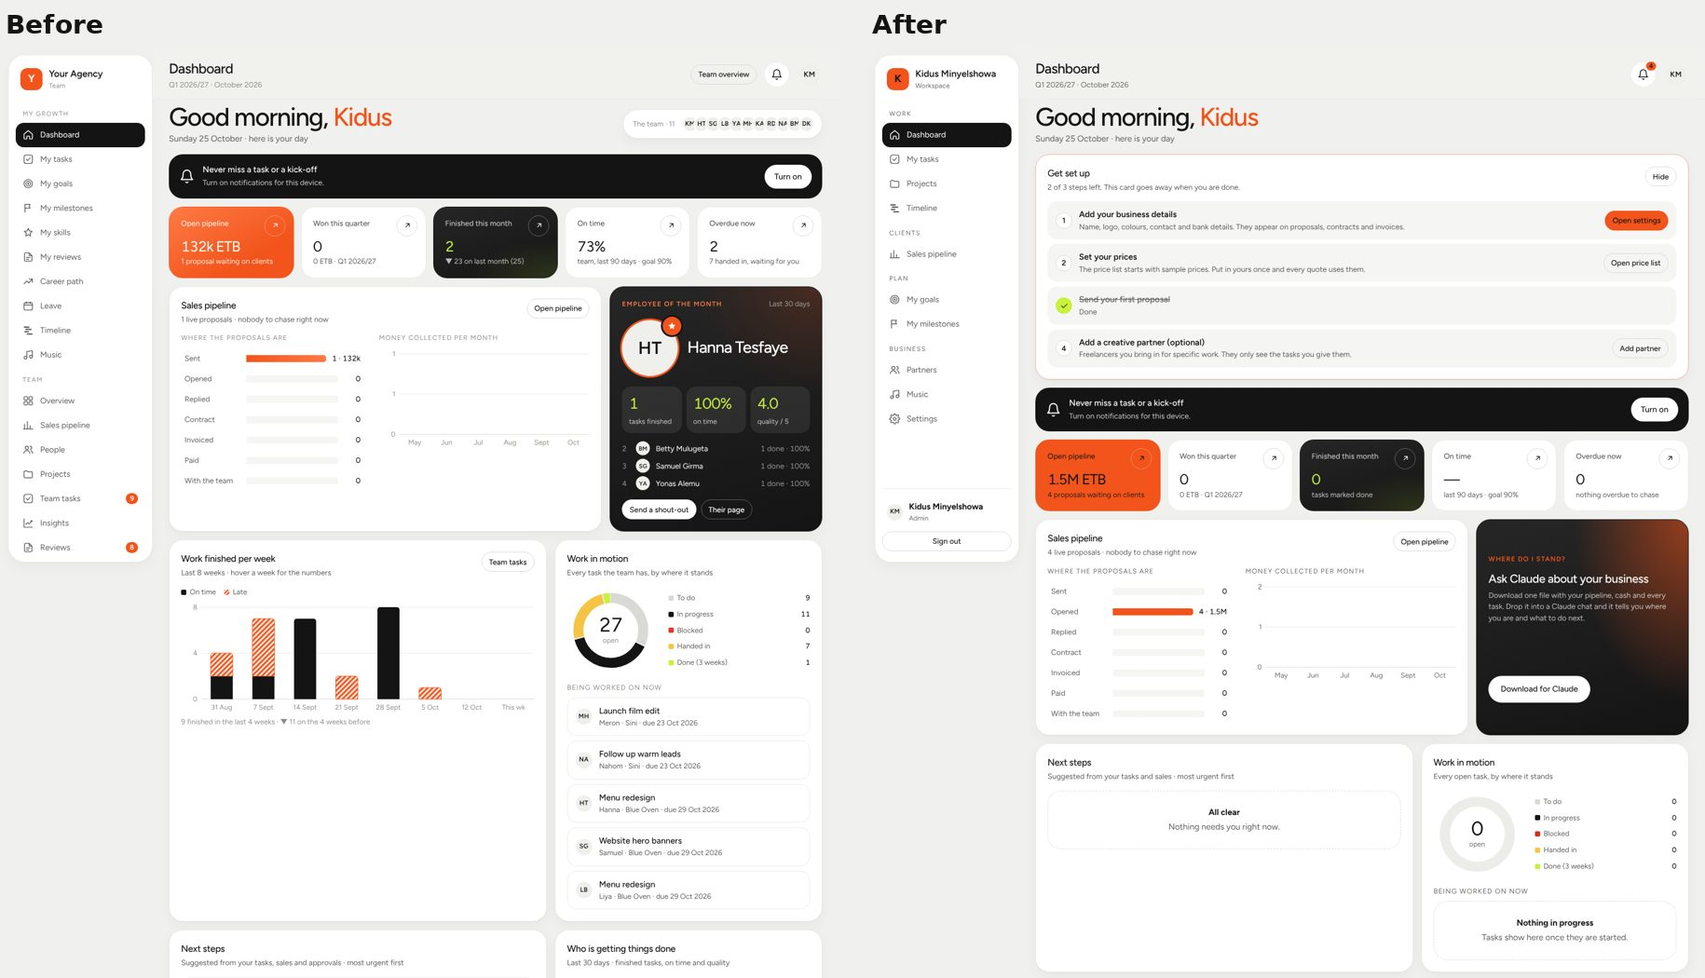
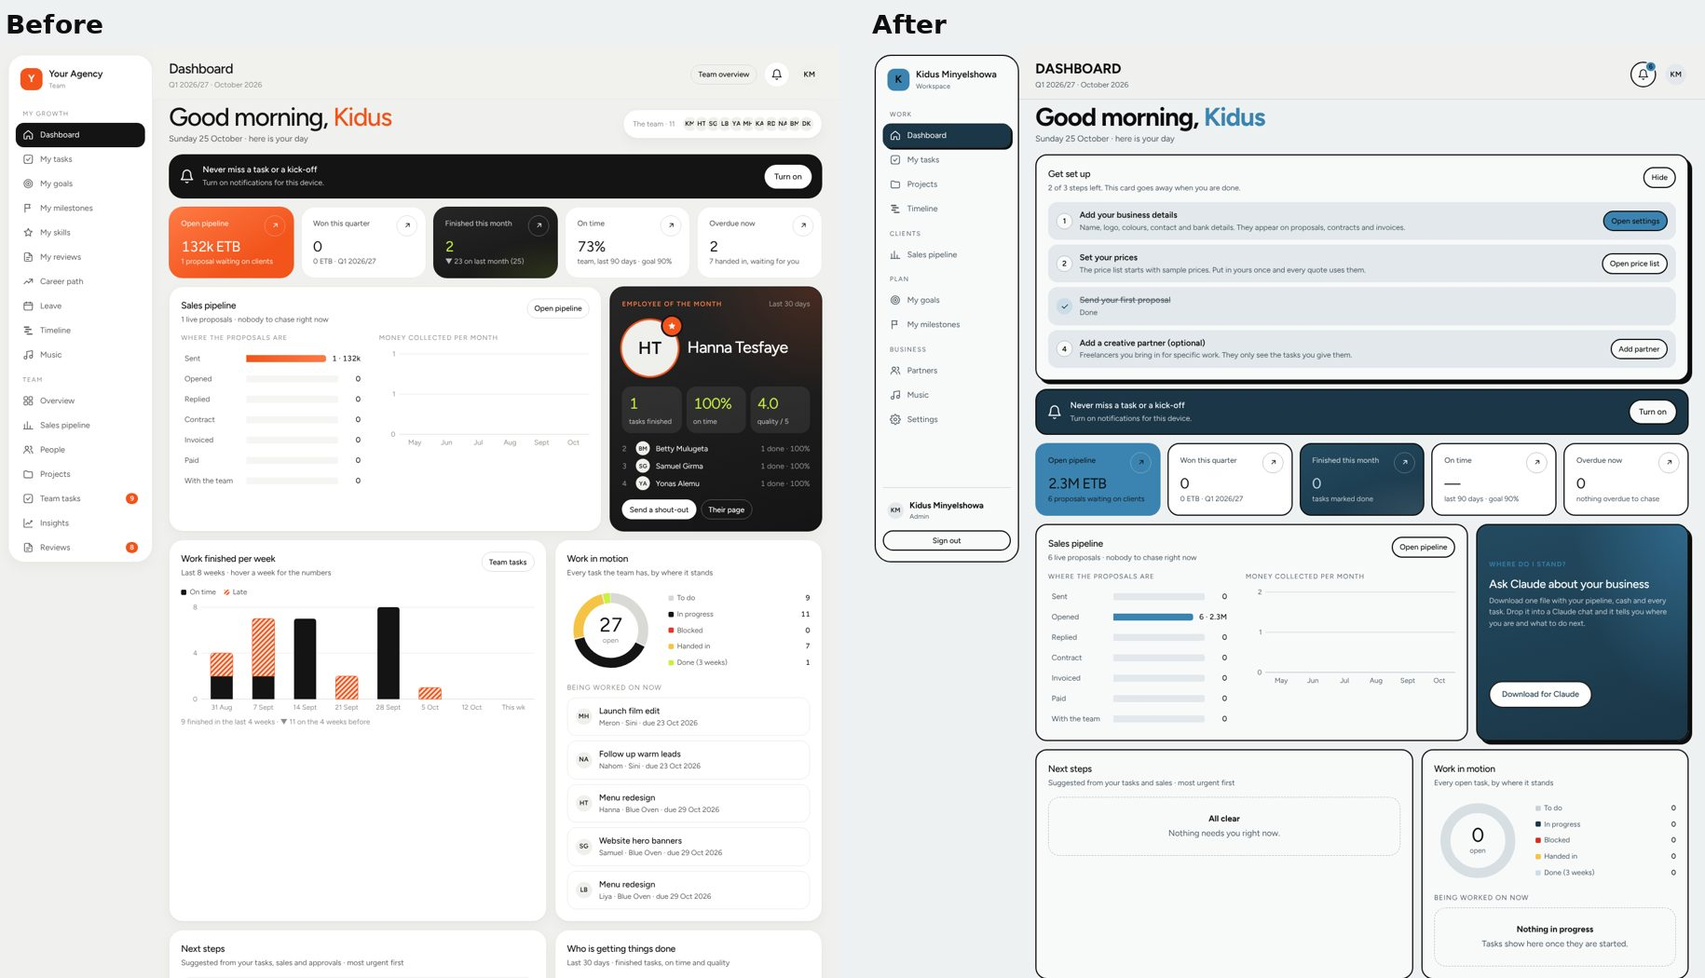
Match the suite's default look to the portfolio site
Paper and ink neutrals, cerulean accent, navy dark surfaces and blue-mist
highlight from the portfolio, with 2px ink outlines, hard offset shadows and
bold uppercase titles across the Team app, Price Builder, the client proposal
(Your brand theme) and the PDFs. Brand & region still re-themes everything.
Contrast, keyboard and phone checks re-run for every role.

Claude-Session: https://claude.ai/code/session_01CSZgg3nLr3tNDdXUPVZzjE

diff --git a/public/team/index.html b/public/team/index.html
@@ -25,14 +25,14 @@
   :root{
     --orange:var(--accent); --orange2:var(--accent-2); --orangeSoft:var(--accent-soft); --lime:var(--highlight); --limeSoft:var(--highlight-soft);
     --yellow:#F6C445; --yellowSoft:var(--warn-soft); --green:var(--ok); --greenSoft:var(--ok-soft); --danger:#D42F23; --dangerSoft:var(--bad-soft);
-    --black:#141414; --black2:#262626;
-    --red:var(--accent); --redSoft:var(--accent-soft); --teal:var(--black); --tealSoft:#EFEFEC; --ivory:#F5F5F3; --wine:var(--black); --wineSoft:#EFEFEC;
-    --stone:#CFCFCA; --stoneSoft:#EFEFEC; --sun:var(--yellow); --sunSoft:var(--yellowSoft);
+    --black:var(--dark); --black2:var(--dark-2);
+    --red:var(--accent); --redSoft:var(--accent-soft); --teal:var(--black); --tealSoft:var(--soft); --ivory:var(--card); --wine:var(--black); --wineSoft:var(--soft);
+    --stone:var(--line-2); --stoneSoft:var(--soft); --sun:var(--yellow); --sunSoft:var(--yellowSoft);
     --soft2:var(--soft-2); --line2:var(--line-2); --ink2:var(--ink-2);
     --accentSoft:var(--accent-soft); --onAccent:var(--on-accent);
-    --plum:var(--black); --plumSoft:#EFEFEC;
+    --plum:var(--black); --plumSoft:var(--soft);
     --okSoft:var(--ok-soft); --warnSoft:var(--warn-soft); --badSoft:var(--bad-soft);
-    --info:var(--black); --infoSoft:#EFEFEC;
+    --info:var(--black); --infoSoft:var(--soft);
     --c1:var(--chart-1); --c2:var(--chart-2);
     --r:var(--r-card); --r2:var(--r-panel);
     --tabh:0px; --playh:0px;
@@ -42,7 +42,7 @@
   body{margin:0;background:var(--page);color:var(--ink);font-family:var(--font);font-size:14.5px;line-height:1.5;-webkit-font-smoothing:antialiased;overflow-x:hidden}
   /* each person's own background (preset or photo), with a veil so text stays readable */
   body.bg{background:var(--bgfill,var(--page)) center/cover fixed no-repeat}
-  body.bg::before{content:"";position:fixed;inset:0;background:rgba(240,240,238,var(--veil,.55));pointer-events:none;z-index:0}
+  body.bg::before{content:"";position:fixed;inset:0;background:rgba(238,241,242,var(--veil,.55));pointer-events:none;z-index:0}
   body.bg #app,body.bg .gate{position:relative;z-index:1}
   a{color:inherit;text-decoration:none}
   h1,h2,h3,h4{margin:0;font-weight:500;letter-spacing:-.02em}
@@ -120,7 +120,7 @@
 
   .headrow{display:flex;gap:16px;align-items:center;flex-wrap:wrap}
   .headrow>.grow{min-width:160px}
-  .avatar{flex:none;width:36px;height:36px;border-radius:50%;background:#EFEFEC;color:#141414;display:grid;place-items:center;
+  .avatar{flex:none;width:36px;height:36px;border-radius:50%;background:var(--soft);color:#141414;display:grid;place-items:center;
           font-size:13px;font-weight:600;letter-spacing:.02em;overflow:hidden;position:relative}
   .avatar img{width:100%;height:100%;object-fit:cover;display:block}
   .avatar.lg{width:64px;height:64px;font-size:21px}
@@ -253,7 +253,7 @@
   .setup-steps li b{display:block;font-weight:600}
   .setup-steps li small{display:block;color:var(--ink2);font-size:13px}
   .setup-steps li .grow{min-width:200px}
-  .promo{display:flex;align-items:center;gap:14px;border-radius:var(--r2);padding:16px 18px;background:var(--ink);color:#fff;flex-wrap:wrap}
+  .promo{display:flex;align-items:center;gap:14px;border-radius:var(--r2);padding:16px 18px;background:var(--dark);color:#fff;border:var(--stroke) solid var(--stroke-c);flex-wrap:wrap}
   .promo .grow b{display:block;font-weight:500}
   .promo .grow span{opacity:.75;font-size:13px}
   .promo button{background:#fff;color:var(--ink)}
@@ -369,9 +369,7 @@
   .kcol[data-status="done"]{--kh:var(--lime);--kt:var(--on-highlight)}
   .kcol>header{display:flex;align-items:center;flex-wrap:wrap;gap:4px 8px;padding:8px 10px 8px 12px;font-size:13.5px;background:var(--kh);color:var(--kt);border-radius:15px;min-width:0}
   .kcol>header .dot{display:none}
-  .kcol>header .muted{color:inherit;opacity:1;font-size:12px;font-weight:600;min-width:22px;height:22px;border-radius:99px;display:inline-grid;place-items:center;padding:0 6px;background:rgba(255,255,255,.24)}
-  .kcol[data-status="todo"]>header .muted,.kcol[data-status="submitted"]>header .muted,.kcol[data-status="done"]>header .muted{background:rgba(20,20,20,.09)}
-  .kcol[data-status="blocked"]>header .muted{background:rgba(0,0,0,.22)}
+  .kcol>header .muted{color:inherit;opacity:1;font-size:12px;font-weight:600;min-width:22px;height:22px;border-radius:99px;display:inline-grid;place-items:center;padding:0 6px;background:transparent;box-shadow:inset 0 0 0 1.5px currentColor}
   .kcol>header small.muted{margin-left:auto;background:none;font-weight:400;opacity:.8;padding:0}
   .kcol.over{box-shadow:0 0 0 2px var(--kh) inset;filter:brightness(.97)}
   .kcol.no{opacity:.45}
@@ -577,7 +575,7 @@
     :root{--tabh:calc(66px + env(safe-area-inset-bottom))}
     .shell{grid-template-columns:1fr}
     aside.nav{display:none}
-    header.top{padding:calc(12px + env(safe-area-inset-top)) 16px 10px;background:rgba(240,240,238,.92);backdrop-filter:blur(14px);-webkit-backdrop-filter:blur(14px)}
+    header.top{padding:calc(12px + env(safe-area-inset-top)) 16px 10px;background:rgba(238,241,242,.92);backdrop-filter:blur(14px);-webkit-backdrop-filter:blur(14px)}
     body.bg header.top{background:rgba(255,252,247,.3)}
     header.top h1{font-size:21px}
     header.top .crumb{display:none}
@@ -640,6 +638,36 @@
   }
   @media (display-mode: standalone){ header.top{padding-top:calc(14px + env(safe-area-inset-top))} }
   @media (prefers-reduced-motion:reduce){*{transition:none!important;animation:none!important}}
+
+  /* ---------- the portfolio look (kidusminyel.xyz): paper, ink outlines, hard offset shadows, navy ---------- */
+  aside.nav,.card,.tile,.modal,.topbtn{border:var(--stroke) solid var(--stroke-c);box-shadow:none}
+  .grid4>.tile,.kpis>.tile{border-color:var(--stroke-c)}
+  .card.setup,.card.claude,.modal{box-shadow:var(--pop)}
+  .card.setup{border-color:var(--stroke-c)}
+  .tcard{background:var(--card);border:1.5px solid var(--stroke-c)}
+  .kcol{border:var(--stroke) solid var(--stroke-c)}
+  .kcol>header{border:1.5px solid var(--stroke-c)}
+  nav#navlinks a[aria-current="page"]{background:var(--dark);box-shadow:var(--pop-sm)}
+  button.primary{background:var(--dark);border:var(--stroke) solid var(--stroke-c);color:#fff}
+  button.primary:hover{background:var(--dark)}
+  button.accent{border:var(--stroke) solid var(--stroke-c)}
+  button.ghost,button:not([class]){border:var(--stroke) solid var(--stroke-c);background:var(--card)}
+  button.primary,button.accent,button.ghost,button:not([class]){transition:background .15s,box-shadow .15s,transform .15s}
+  button.primary:hover,button.accent:hover,button.ghost:hover,button:not([class]):hover{box-shadow:var(--pop-sm);transform:translate(-2px,-2px)}
+  button.primary:active,button.accent:active,button.ghost:active,button:not([class]):active{box-shadow:none;transform:none}
+  .card.dark button.ghost,.card.dark button:not([class]),.card.claude button:not([class]){border-color:var(--card)}
+  input,select,textarea{background:var(--card);border:1.5px solid var(--line-2)}
+  input:focus,select:focus,textarea:focus{border-color:var(--stroke-c);box-shadow:var(--pop-sm)}
+  .seg{background:var(--dark);border:var(--stroke) solid var(--stroke-c)}
+  :is(.seg,.tabbar,.tabs,.mobilebar) button,:is(.seg,.tabbar,.tabs,.mobilebar) button:hover{border-color:transparent;box-shadow:none;transform:none}
+  .seg button:not([aria-checked="true"]){background:transparent}
+  .tabbar button{background:none}
+  .tabbar [aria-current="page"] .ic{background:var(--dark)}
+  header.top h1{font-weight:800;text-transform:uppercase;letter-spacing:-.01em}
+  .hello h2{font-weight:800;letter-spacing:-.035em}
+  .card.dark,.tile.t-black,.grid4>.tile:nth-child(4n+3),.kpis>.tile:nth-child(5n+3){border-color:var(--stroke-c)}
+  @media (prefers-reduced-motion:reduce){button:hover{transform:none !important}}
+  button:focus-visible,a:focus-visible,input:focus-visible,select:focus-visible,textarea:focus-visible{box-shadow:var(--focus) !important}
 </style>
 </head>
 <body>

diff --git a/public/price/proposal.html b/public/price/proposal.html
@@ -45,16 +45,16 @@ html[data-theme="classic"]{
 /* "Your brand": every colour is mixed from the brand accent and highlight (set by theme.js) */
 html[data-theme="brand"]{
   --a:var(--accent); --h:var(--highlight);
-  --page:#F0F0EE; --card:#FFFFFF; --inner:#F2F2EF; --ink:#141414; --ink2:#5E5E5A; --mute:#6B6B66; --line:#E6E6E2;
+  --page:#EEF1F2; --card:#F8FAFA; --inner:#E9EEF0; --ink:#0E0E0E; --ink2:#4B5A63; --mute:#56636B; --line:#CBD3D7;
   --pink:color-mix(in srgb,var(--a) 32%,#fff); --pinkSel:color-mix(in srgb,var(--a) 48%,#fff); --pinkSoft:color-mix(in srgb,var(--a) 12%,#fff); --pinkLine:color-mix(in srgb,var(--a) 58%,#fff);
-  --plum:color-mix(in srgb,var(--a) 38%,#141414); --teal:color-mix(in srgb,var(--h) 45%,#fff); --tealIn:color-mix(in srgb,var(--h) 22%,#fff);
+  --plum:color-mix(in srgb,var(--a) 30%,#0E0E0E); --teal:color-mix(in srgb,var(--h) 45%,#fff); --tealIn:color-mix(in srgb,var(--h) 22%,#fff);
   --tealInk:#141414; --tealLine:color-mix(in srgb,var(--h) 55%,#141414); --tealText:#2B2B27;
-  --black:#141414; --shade:20,20,20; --togOff:#E3E3DF; --dot:#D3D3CE;
+  --black:#1A3647; --shade:14,14,14; --togOff:#D7DFE3; --dot:#BAC4CA;
   --gA-bg:color-mix(in srgb,var(--a) 12%,#fff); --gA-ink:#141414; --gA-arc:var(--a); --gA-arc2:color-mix(in srgb,var(--a) 70%,#fff); --gA-rest:color-mix(in srgb,var(--a) 20%,#fff); --gA-chip:color-mix(in srgb,var(--a) 24%,#fff);
-  --gB-bg:#F2F2EF; --gB-ink:#141414; --gB-track:#E3E3DF; --gB-tick:#A8A8A2;
+  --gB-bg:#E9EEF0; --gB-ink:#0E0E0E; --gB-track:#D7DFE3; --gB-tick:#9AA7AE;
   --w1:var(--a); --w2:color-mix(in srgb,var(--a) 65%,#141414); --w3:color-mix(in srgb,var(--a) 55%,#fff); --w4:#141414; --w5:color-mix(in srgb,var(--a) 30%,#fff); --w6:color-mix(in srgb,var(--a) 75%,#8F8F8A); --wx:#141414;
   --gC-bg:color-mix(in srgb,var(--h) 20%,#fff); --gC-ink:#141414; --gC-line:color-mix(in srgb,var(--h) 45%,#141414); --gC-soft:color-mix(in srgb,var(--h) 35%,#fff); --gC-vline:color-mix(in srgb,var(--h) 60%,#6B6B66);
-  --gD-bg:#EEEEEA; --gD-ink:#2B2B27; --gD-badge:#6B6B66; --gD-soft:#E0E0DB; --gD-softInk:#3F3F3B;
+  --gD-bg:#E2E8EB; --gD-ink:#1F2A30; --gD-badge:#56636B; --gD-soft:#D7DFE3; --gD-softInk:#33424B;
 }
 html[data-theme="ember"]{
   --page:#F1ECE6; --card:#FBF8F4; --inner:#F0E9E1; --ink:#3B1A0C; --ink2:#6B4E3F; --mute:#9A8374; --line:#E9DDD2;
@@ -387,6 +387,15 @@ dialog::backdrop{background:rgba(var(--shade),.35);-webkit-backdrop-filter:blur(
   .invh h2{font-size:20px}
 }
 @media (prefers-reduced-motion:reduce){*{transition:none !important}}
+
+/* ---------- "Your brand" theme: the portfolio look (ink outlines, hard offset shadows) ---------- */
+html[data-theme="brand"] :is(.field,.panel,.gc,.dlg,.done,.cat,.innerbox){border:2px solid var(--ink)}
+html[data-theme="brand"] .gc{box-shadow:none}
+html[data-theme="brand"] :is(.field.plum,.field.pink){box-shadow:6px 6px 0 var(--ink)}
+html[data-theme="brand"] .field .card{border:2px solid var(--ink)}
+html[data-theme="brand"] .hero h1{font-weight:800;text-transform:uppercase;letter-spacing:-.02em}
+html[data-theme="brand"] .tl .svc,html[data-theme="brand"] .tl .lane{border:2px solid var(--ink)}
+html[data-theme="brand"] .tl .svc{border-right:0} html[data-theme="brand"] .tl .lane{border-left:0}
 </style>
 </head>
 <body>

diff --git a/public/team/suite.css b/public/team/suite.css
@@ -3,30 +3,37 @@
    each page maps its own older variable names onto these, so changing them here re-themes all three. */
 :root{
   /* brand */
-  --accent:#F2541B; --accent-2:#FF7A45; --on-accent:#141414; --highlight:#C8F23C; --on-highlight:#141414;
+  --accent:#3B84B1; --accent-2:#2A6D97; --on-accent:#0E0E0E; --highlight:#C9DDE9; --on-highlight:#0E0E0E;
   --accent-soft:color-mix(in srgb, var(--accent) 14%, #fff);
   --accent-strong:color-mix(in srgb, var(--accent) 82%, #000);
   --highlight-soft:color-mix(in srgb, var(--highlight) 22%, #fff);
 
-  /* neutrals: every text colour passes WCAG AA (4.5:1) on --page, --soft and --card */
-  --ink:#141414; --ink-2:#5E5E5A; --mute:#6B6B66;
-  --page:#F0F0EE; --card:#FFFFFF; --soft:#F5F5F3; --soft-2:#ECECE9; --line:#EAEAE7; --line-2:#D9D9D5;
+  /* neutrals, from the portfolio site's paper and ink: every text colour passes WCAG AA (4.5:1)
+     on --page, --soft and --card */
+  --ink:#0E0E0E; --ink-2:#4B5A63; --mute:#56636B;
+  --page:#EEF1F2; --card:#F8FAFA; --soft:#E2E8EB; --soft-2:#D7DFE3; --line:#CBD3D7; --line-2:#AEB9BF;
+  /* dark surfaces are the portfolio's navy */
+  --dark:#1A3647; --dark-2:#234A60;
+
+  /* the portfolio look: ink outlines and hard offset shadows */
+  --stroke:2px; --stroke-c:var(--ink);
+  --pop:6px 6px 0 var(--ink); --pop-sm:3px 3px 0 var(--ink);
 
   /* task status, the same everywhere */
-  --st-todo:#EFEFEC; --st-doing:#141414; --st-blocked:#D42F23; --st-handed:#F6C445; --st-done:var(--highlight);
+  --st-todo:#E2E8EB; --st-doing:#1A3647; --st-blocked:#D42F23; --st-handed:#F6C445; --st-done:var(--highlight);
 
   /* messages */
   --ok:#157238; --ok-soft:#E4F5EA; --warn:#8A5F00; --warn-soft:#FDF3D3; --bad:#C42B20; --bad-soft:#FDE8E6;
 
   /* charts: the brand accent, then ink, then softer steps */
-  --chart-1:var(--accent); --chart-2:#141414; --chart-3:#8F8F8A; --chart-4:var(--highlight);
+  --chart-1:var(--accent); --chart-2:#1A3647; --chart-3:#8A979E; --chart-4:var(--highlight);
 
   /* type, space, shape */
   --font:"Figtree",-apple-system,BlinkMacSystemFont,"Segoe UI",Helvetica,Arial,sans-serif;
   --fs-xs:12px; --fs-sm:13.5px; --fs-md:15px; --fs-lg:18px; --fs-xl:22px; --fs-2xl:28px; --fs-3xl:40px;
   --sp-1:4px; --sp-2:8px; --sp-3:12px; --sp-4:16px; --sp-5:20px; --sp-6:24px; --sp-7:32px;
-  --r-input:10px; --r-card:16px; --r-panel:24px; --r-pill:999px;
-  --shadow:0 1px 2px rgba(20,20,20,.03),0 8px 24px rgba(20,20,20,.04);
+  --r-input:12px; --r-card:16px; --r-panel:20px; --r-pill:999px;
+  --shadow:none;
   --focus:0 0 0 2px var(--card),0 0 0 4px var(--accent);
   --tap:44px;
 }

diff --git a/public/price/index.html b/public/price/index.html
@@ -14,8 +14,8 @@
   /* colours come from /team/suite.css (shared with the Team app and proposals); these names map onto it,
      so the Price Builder follows the brand accent and the same neutrals as the Team app */
   :root{
-    --inner:#F2F2EF; --ink2:var(--ink-2);
-    --pink:var(--accent-soft); --pinkSel:var(--accent); --pinkSoft:color-mix(in srgb,var(--accent) 10%,#fff); --plum:#141414;
+    --inner:var(--soft); --ink2:var(--ink-2);
+    --pink:var(--accent-soft); --pinkSel:var(--accent); --pinkSoft:color-mix(in srgb,var(--accent) 10%,#fff); --plum:var(--dark);
     --teal:var(--highlight-soft); --tealInk:var(--ink);
   }
   *{box-sizing:border-box}
@@ -240,6 +240,21 @@
   @media(max-width:760px){main{padding:14px 12px 100px}header.top{padding:10px 12px}.grid2,.grid3,.steps3{grid-template-columns:1fr}
     .head h1{font-size:28px}.review dl{grid-template-columns:1fr}.doc .parties{grid-template-columns:1fr}.doc{padding:20px 16px}.review dt{padding-bottom:0}.review dd{border-top:0}
     .items,.qt,.opts{display:block;overflow-x:auto}.items input:not([type=checkbox]):not([type=radio]),.items select,.opts input:not([type=checkbox]):not([type=radio]){min-width:84px}.steps{border-radius:22px}}
+
+  /* ---------- the portfolio look (kidusminyel.xyz): paper, ink outlines, hard offset shadows, navy ---------- */
+  .panel,.live,.hint,.gate .card,dialog#dlg,.doc{border:var(--stroke) solid var(--stroke-c);box-shadow:none}
+  .live,dialog#dlg,.gate .card{box-shadow:var(--pop)}
+  .steps{background:var(--dark);border:var(--stroke) solid var(--stroke-c)}
+  button.primary,button.ghost,header.top button,.head button{border:var(--stroke) solid var(--stroke-c);box-shadow:none}
+  button.primary{background:var(--accent);color:var(--on-accent)}
+  button.ghost{background:var(--card)}
+  button.primary,button.ghost{transition:background .15s,box-shadow .15s,transform .15s}
+  button.primary:hover,button.ghost:hover{filter:none;box-shadow:var(--pop-sm);transform:translate(-2px,-2px)}
+  button.primary:active,button.ghost:active{box-shadow:none;transform:none}
+  input:focus,textarea:focus,select:focus{border-color:var(--stroke-c)}
+  .head h1{font-weight:800;text-transform:uppercase;letter-spacing:-.01em}
+  @media (prefers-reduced-motion:reduce){button:hover{transform:none !important}}
+  button:focus-visible,a:focus-visible,input:focus-visible,select:focus-visible,textarea:focus-visible{box-shadow:var(--focus) !important}
 </style>
 </head>
 <body>

diff --git a/public/price/pdf.js b/public/price/pdf.js
@@ -5,11 +5,11 @@
 import { money, dateLong, termContext, fillTerms, paymentPlan, paidSoFar, invoiceLineText, KIND_LABELS } from '/price/deal.js';
 import { clientTotals, toDisplay, defaultSelection, homeCurrency, timelinePlan } from '/price/engine.js';
 
-/* palette: the same neutrals as suite.css; the accent ("pink") and its tint follow the brand's
+/* palette: the same paper, ink and navy as suite.css (the portfolio's colours); the accent ("pink") and its tint follow the brand's
    accent colour (Team → Settings → Brand & region), and text on it is white or ink, whichever reads */
 const C = {
-  plum: [20, 20, 20], ink: [20, 20, 20], ink2: [94, 94, 90], mute: [107, 107, 102],
-  pink: [242, 84, 27], pinkSoft: [254, 236, 229], onPink: [20, 20, 20], cream: [245, 245, 243], line: [234, 234, 231], ok: [21, 114, 56], white: [255, 255, 255]
+  plum: [26, 54, 71], ink: [14, 14, 14], ink2: [75, 90, 99], mute: [86, 99, 107],
+  pink: [59, 132, 177], pinkSoft: [229, 239, 245], onPink: [14, 14, 14], cream: [238, 241, 242], line: [203, 211, 215], ok: [21, 114, 56], white: [255, 255, 255]
 };
 const lum = rgb => { const c = rgb.map(v => { v /= 255; return v <= 0.03928 ? v / 12.92 : Math.pow((v + 0.055) / 1.055, 2.4); }); return 0.2126 * c[0] + 0.7152 * c[1] + 0.0722 * c[2]; };
 const onColour = rgb => (1.05 / (lum(rgb) + 0.05) >= (lum(rgb) + 0.05) / (lum(C.ink) + 0.05) ? C.white : C.ink);

diff --git a/public/team/studio.js b/public/team/studio.js
@@ -26,7 +26,7 @@ const short = n => { n = Number(n) || 0; return n >= 1e6 ? (Math.round(n / 1e5) 
 const won = r => r.reached && (r.reached.signed || r.reached.paid);
 const wonAt = r => String((r.contract && (r.contract.signedAt || r.contract.date)) || '').slice(0, 10);
 const monthsBack = n => Array.from({ length: n }, (_, i) => { const d = new Date(); d.setUTCDate(1); d.setUTCMonth(d.getUTCMonth() - (n - 1 - i)); return d.toISOString().slice(0, 7); });
-const STATUS_COLOR = { todo: '#D9D9D5', in_progress: '#141414', blocked: '#D42F23', submitted: '#F6C445', done: 'var(--highlight)' };
+const STATUS_COLOR = { todo: '#CBD3D7', in_progress: '#1A3647', blocked: '#D42F23', submitted: '#F6C445', done: 'var(--highlight)' };
 
 /* the people the dashboard compares: everyone you can see, without the founder */
 function people() {

diff --git a/public/price/proposal.js b/public/price/proposal.js
@@ -256,7 +256,7 @@ function renderIncluded(t) {
 }
 
 /* ---------- per-service timeline: each service's steps on a week grid ---------- */
-const SVC_COLORS = ['var(--pinkSel)', 'var(--teal)', 'var(--w5)', 'var(--w3)', 'var(--gC-soft)', 'var(--gD-soft)'];
+const SVC_COLORS = ['var(--pinkSel)', 'var(--gA-arc2)', 'var(--w5)', 'var(--teal)', 'var(--gC-soft)', 'var(--gD-soft)'];
 function renderTimeline() {
   const plan = timelinePlan(P, sel);
   const panel = $('#tlPanel');

diff --git a/public/team/theme.js b/public/team/theme.js
@@ -1,7 +1,7 @@
 /* The brand colours from Settings → Brand & region, applied the same way in the Team app, the
    Price Builder and the client proposal. Sets the --accent family that suite.css defines, and
    picks white or near-black for text on the accent so it stays readable whatever colour is chosen. */
-const INK = '#141414';
+const INK = '#0E0E0E';
 
 function hexToRgb(hex) {
   const m = /^#?([0-9a-f]{3}|[0-9a-f]{6})$/i.exec(String(hex || '').trim());

diff --git a/public/price/builder.js b/public/price/builder.js
@@ -470,7 +470,7 @@ function themePicker() {
     ])));
   };
   draw();
-  return panel('Proposal look', 'The colour theme the client sees on their page. Classic is the default.', [grid]);
+  return panel('Proposal look', 'The colour theme the client sees on their page. “Your brand” uses your colours from Settings and is the default.', [grid]);
 }
 
 /* the services' own timelines next to the quoted pace: a gentle note when they don't agree */

diff --git a/api/_brand.js b/api/_brand.js
@@ -28,7 +28,7 @@ export const DEFAULT_BRAND = {
   name: 'Your Agency',
   tagline: 'Brand and design',
   logo: '',                       // a picture link; empty shows the first letter of the name
-  colors: { accent: '#F2541B', accent2: '#FF7A45', ink: '#141414', highlight: '#C8F23C' },
+  colors: { accent: '#3B84B1', accent2: '#2A6D97', ink: '#0E0E0E', highlight: '#C9DDE9' },
   email: '',
   secondaryEmail: '',
   phone: '',

diff --git a/docs/suite/UX-RESULTS.md b/docs/suite/UX-RESULTS.md
@@ -10,6 +10,10 @@ observed, not assumed. Before shots are from the audit (UX-AUDIT.md), taken on t
   freelancer a short menu (Work, Clients, Plan, Business), calls People "Partners", and takes
   team-only cards off the dashboard. "Decide for me" (the default) switches to it while there is
   at most one active non-partner person. Every team screen still exists and opens by its address.
+- **Looks like the portfolio site.** The default look now uses the portfolio's paper
+  background, ink, cerulean blue (#3B84B1), navy (#1A3647) and blue mist (#C9DDE9), with 2 px ink
+  outlines, hard offset shadows and bold uppercase page titles, in Figtree like the site.
+  ![](ux-shots/portfolio-vs-suite.jpg)
 - **Your brand everywhere.** One accent and one highlight colour from Brand & region now colour
   the Team app, the Price Builder, the client proposal ("Your brand" theme, the default for new
   quotes) and the PDFs. Text on the accent turns white or near-black, whichever is readable.
@@ -59,6 +63,7 @@ drew square corners, and a page error when the Team app routed while signed out.
 
 | Brand | Accent / highlight | Team app | Proposal page | PDF |
 | --- | --- | --- | --- | --- |
+| Kidus (default) | #3B84B1 cerulean / #C9DDE9 blue mist | re-themed, contrast passes | re-themed, contrast passes | blue accents, navy headings and total |
 | Fern & Field | #0B5D3B dark green / #F4D35E yellow | re-themed, contrast passes | re-themed, contrast passes | green mark, rules, table heads and timeline; text on green readable |
 | Pop Kiosk | #FF2E88 hot pink / #2EC4F1 cyan | re-themed, contrast passes (dark text on pink picked automatically) | re-themed, contrast passes | pink throughout, readable |
 

diff --git a/docs/suite/CHANGES.md b/docs/suite/CHANGES.md
@@ -111,3 +111,4 @@ See UX-AUDIT.md, UX-PLAN.md and UX-RESULTS.md.
 | `public/price/proposal.html`, `proposal.js` | brand theme, week-by-week project timeline per service, larger toggle hit area | UX-PASS |
 | `public/price/pdf.js` | neutrals match the app, brand-tinted accents with readable text, project timeline page in the proposal PDF | UX-PASS |
 | `api/_price-catalog.js` | sample timeline steps on the Branding project type | UX-PASS |
+| `suite.css`, `theme.js`, `_brand.js`, Team / Price Builder / proposal styles, `pdf.js` | default look matches the portfolio site: paper and ink neutrals, cerulean accent, navy dark surfaces, blue-mist highlight, ink outlines and offset shadows; still re-themed by Brand & region | UX-PASS |
